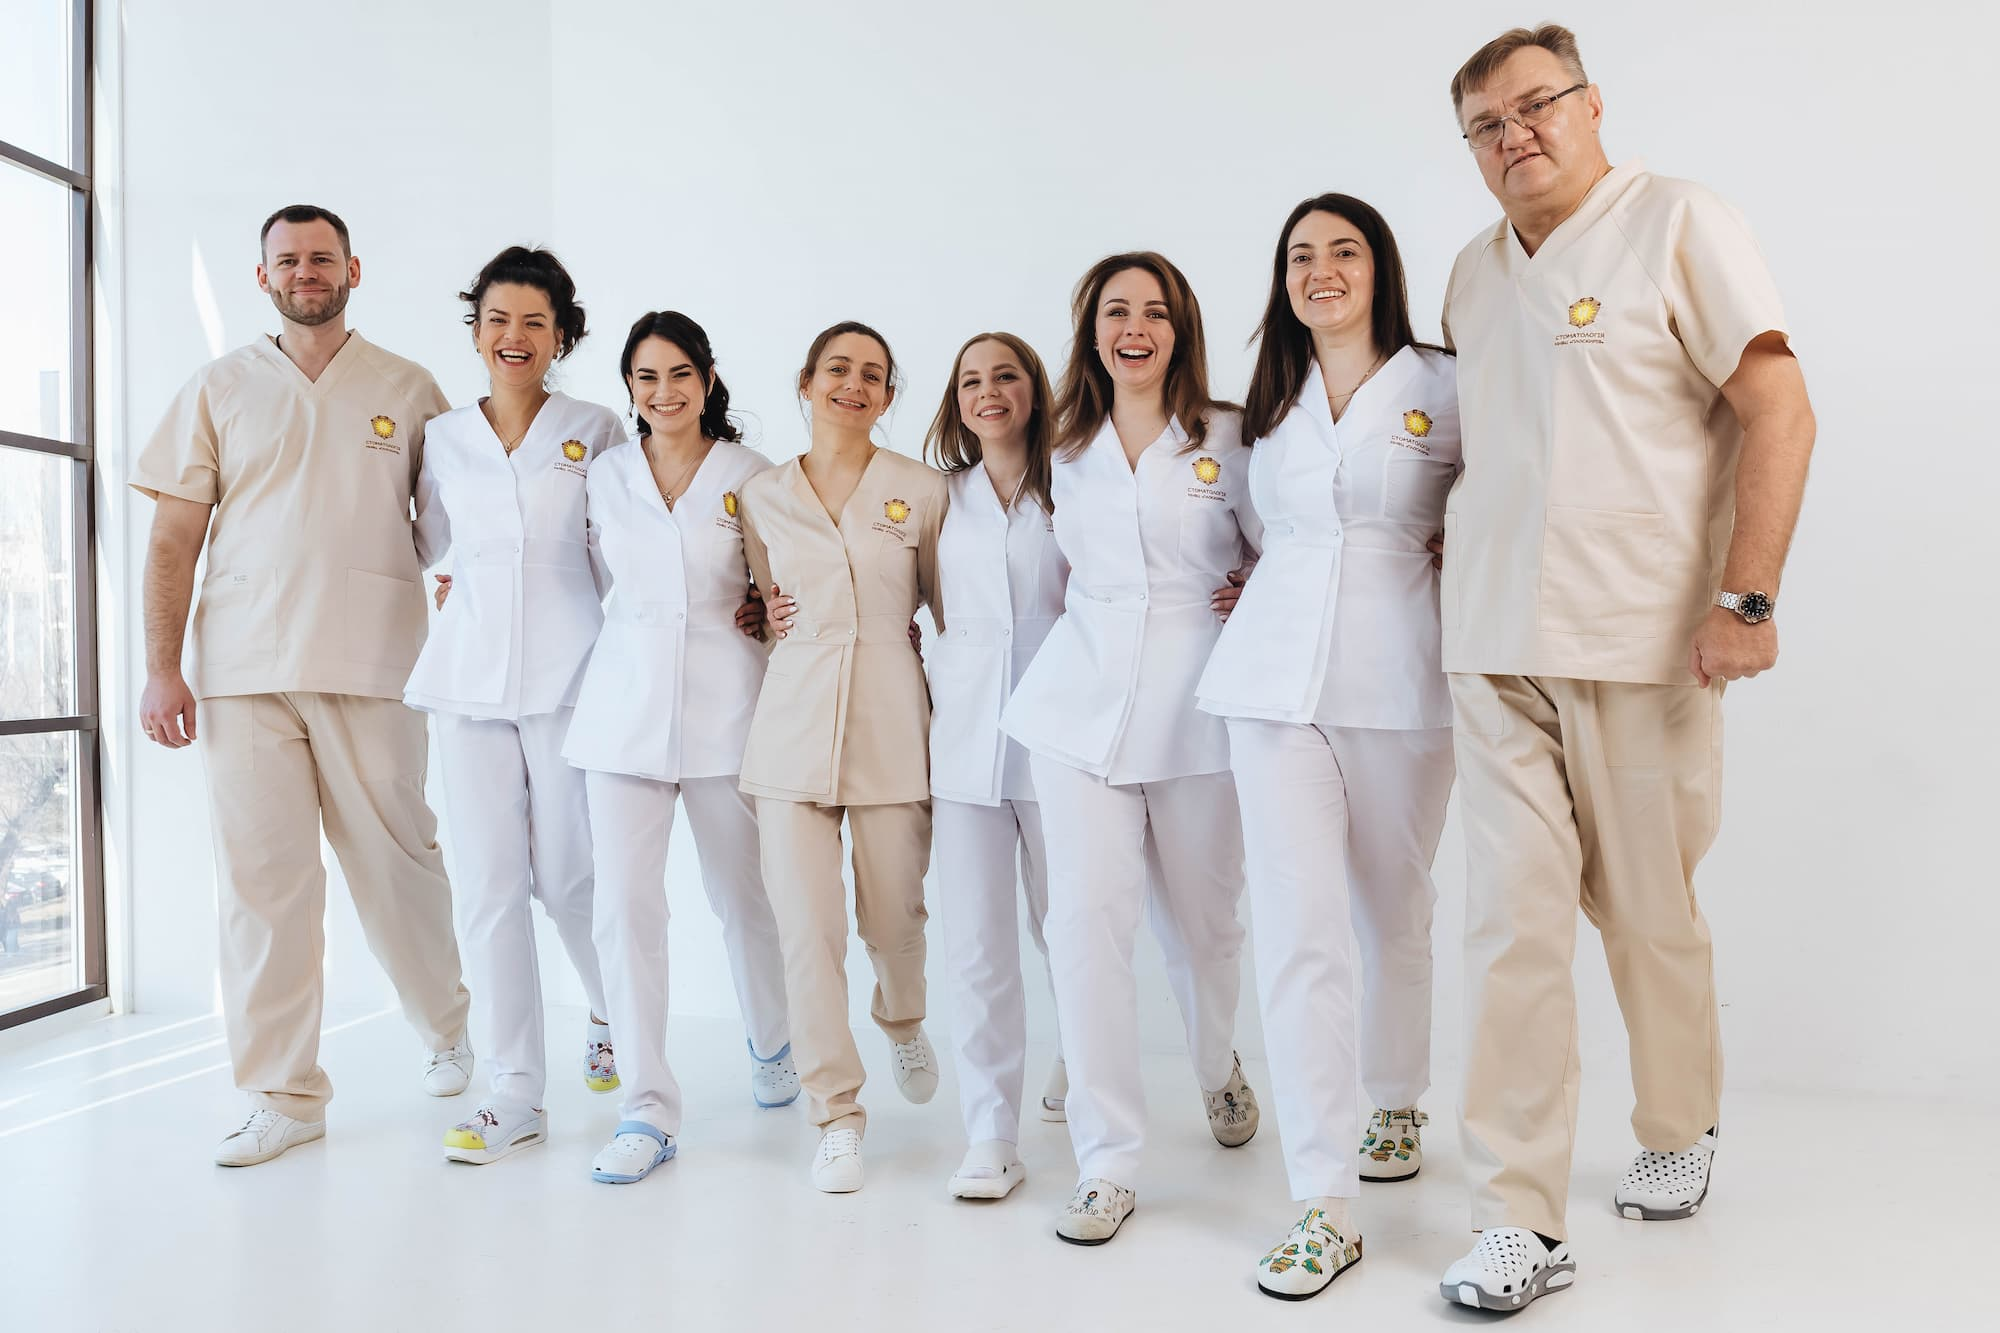
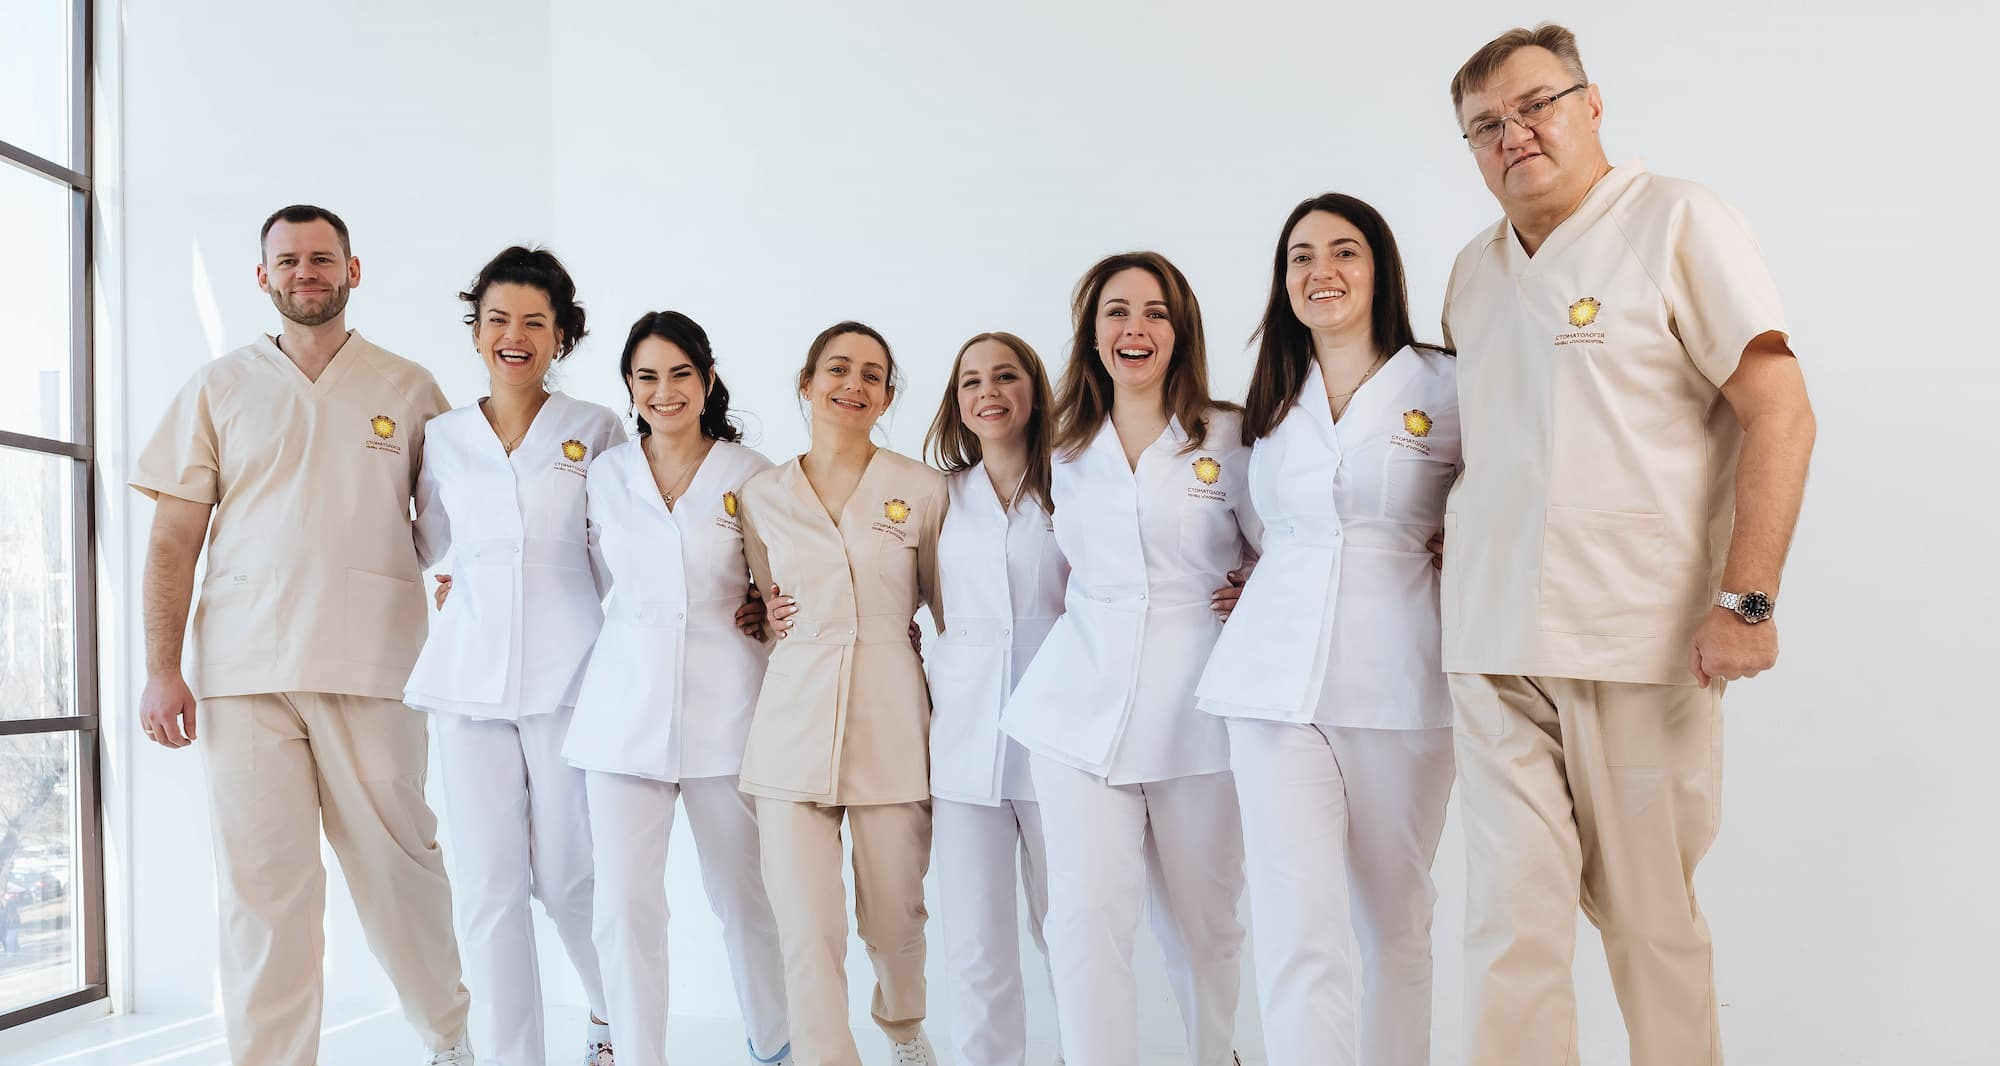
Add smoll fixes

diff --git a/app/_components/services.tsx b/app/_components/services.tsx
@@ -1,15 +1,45 @@
+"use client";
+
+import { useEffect, useRef, useState } from "react";
 import Link from "next/link";
-import { ArrowUpRight } from "lucide-react";
+import { ArrowLeft, ArrowRight, ArrowUpRight } from "lucide-react";
 import { services } from "@/data/services";
 
 const priceFormatter = new Intl.NumberFormat("uk-UA");
+const MOBILE_GAP = 20;
 
 export default function Services() {
+  const [atStart, setAtStart] = useState(true);
+  const [atEnd, setAtEnd] = useState(false);
+  const scrollRef = useRef<HTMLUListElement>(null);
+
+  useEffect(() => {
+    const el = scrollRef.current;
+    if (!el) return;
+    const updateBounds = () => {
+      setAtStart(el.scrollLeft <= 1);
+      setAtEnd(el.scrollLeft >= el.scrollWidth - el.clientWidth - 1);
+    };
+    updateBounds();
+    el.addEventListener("scroll", updateBounds, { passive: true });
+    window.addEventListener("resize", updateBounds);
+    return () => {
+      el.removeEventListener("scroll", updateBounds);
+      window.removeEventListener("resize", updateBounds);
+    };
+  }, []);
+
+  const move = (dir: -1 | 1) => {
+    const el = scrollRef.current;
+    if (!el) return;
+    el.scrollBy({ left: dir * (el.clientWidth + MOBILE_GAP), behavior: "smooth" });
+  };
+
   return (
     <section id="services" aria-labelledby="services-h2" className="bg-surface py-16 md:py-[100px]">
       <div className="mx-auto max-w-[1200px] px-5 md:px-8">
         <header className="mb-10 flex flex-col items-start justify-between gap-6 md:mb-14 md:flex-row md:items-end">
-          <div>
+          <div className="max-w-[640px]">
             <p className="text-[13px] font-semibold uppercase tracking-[1.5px] text-accent">
               Що ми лікуємо
             </p>
@@ -19,17 +49,41 @@ export default function Services() {
             >
               Наші послуги
             </h2>
+            <p className="mt-4 text-[16px] leading-relaxed text-muted">
+              Повний спектр стоматологічних послуг для всієї родини — від дітей до людей похилого віку.
+            </p>
           </div>
-          <p className="max-w-[560px] text-[16px] leading-relaxed text-muted">
-            Повний спектр стоматологічних послуг для всієї родини — від дітей до людей похилого віку.
-          </p>
+          <div className="flex gap-3 sm:hidden">
+            <button
+              type="button"
+              onClick={() => move(-1)}
+              disabled={atStart}
+              aria-label="Попередня послуга"
+              className="grid h-12 w-12 place-items-center rounded-full border-2 border-cream-2 bg-cream text-text transition-[transform,background-color,border-color,color,opacity] duration-200 ease-out enabled:hover:border-accent enabled:hover:bg-accent enabled:hover:text-white enabled:active:scale-[0.94] disabled:opacity-40 focus-visible:outline-none focus-visible:ring-2 focus-visible:ring-accent"
+            >
+              <ArrowLeft className="h-5 w-5" strokeWidth={2} aria-hidden="true" />
+            </button>
+            <button
+              type="button"
+              onClick={() => move(1)}
+              disabled={atEnd}
+              aria-label="Наступна послуга"
+              className="grid h-12 w-12 place-items-center rounded-full border-2 border-cream-2 bg-cream text-text transition-[transform,background-color,border-color,color,opacity] duration-200 ease-out enabled:hover:border-accent enabled:hover:bg-accent enabled:hover:text-white enabled:active:scale-[0.94] disabled:opacity-40 focus-visible:outline-none focus-visible:ring-2 focus-visible:ring-accent"
+            >
+              <ArrowRight className="h-5 w-5" strokeWidth={2} aria-hidden="true" />
+            </button>
+          </div>
         </header>
 
-        <ul className="-mx-5 flex snap-x snap-mandatory gap-5 overflow-x-auto px-5 pb-2 sm:mx-0 sm:grid sm:grid-cols-2 sm:gap-6 sm:overflow-visible sm:px-0 sm:pb-0 md:grid-cols-3">
+        <ul
+          ref={scrollRef}
+          className="flex gap-5 overflow-x-auto scroll-smooth [scroll-snap-type:x_mandatory] [scrollbar-width:none] [&::-webkit-scrollbar]:hidden sm:grid sm:grid-cols-2 sm:gap-6 sm:overflow-visible md:grid-cols-3"
+          style={{ overscrollBehaviorX: "contain" }}
+        >
           {services.map((s) => (
             <li
               key={s.id}
-              className="group min-w-[85%] shrink-0 snap-start rounded-[20px] border border-transparent bg-cream transition-[transform,border-color,box-shadow] duration-200 ease-out hover:-translate-y-1 hover:border-accent/15 hover:shadow-[0_16px_48px_rgba(0,0,0,0.08)] sm:min-w-0 sm:shrink"
+              className="group w-full shrink-0 rounded-[20px] border border-transparent bg-cream transition-[transform,border-color,box-shadow] duration-200 ease-out hover:-translate-y-1 hover:border-accent/15 hover:shadow-[0_16px_48px_rgba(0,0,0,0.08)] [scroll-snap-align:start] sm:w-auto sm:shrink"
             >
               <Link
                 href={`/poslugy/${s.slug}`}

diff --git a/app/_components/footer.tsx b/app/_components/footer.tsx
@@ -1,4 +1,5 @@
 import Link from "next/link";
+import Image from "next/image";
 import { contacts } from "@/data/contacts";
 
 function InstagramIcon({ className }: { className?: string }) {
@@ -23,10 +24,21 @@ export default function Footer() {
       <div className="mx-auto flex max-w-[1200px] flex-wrap items-center justify-between gap-6">
         <Link
           href="/"
-          className="font-display text-[16px] font-bold text-white"
+          aria-label="Центр Плоскирів — головна"
+          className="inline-flex items-center gap-2.5 font-display text-[16px] font-bold text-white"
           style={{ letterSpacing: "-0.5px" }}
         >
-          Плоски<span className="text-accent">рів</span>
+          <Image
+            src="/logo/logo.png"
+            alt=""
+            width={32}
+            height={32}
+            className="shrink-0 object-contain"
+            style={{ width: 32, height: 32 }}
+          />
+          <span>
+            Плоски<span className="text-accent">рів</span>
+          </span>
         </Link>
 
         <p className="text-[13px] text-white/35">
